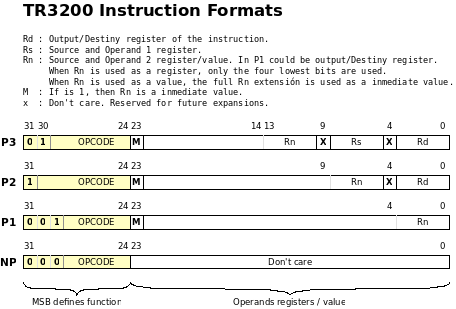
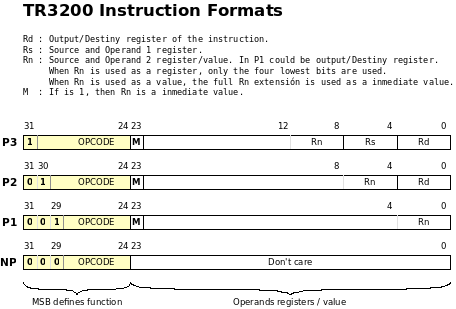
Tweaked TR3200 instruction format and set

diff --git a/TR3200.md b/TR3200.md
@@ -2,7 +2,7 @@ License : CC BY-SA 3.0 http://creativecommons.org/licenses/by-sa/3.0/
 
 TR3200 (Trillek Risc cpu 32 00) Specification
 ====================================
-Version 0.9b (WIP) 
+Version 0.10 (WIP) 
 
 
 SUMMARY
@@ -93,61 +93,62 @@ bits.
 - Form P1 : One parameter instruction format
 - Form NP : No parameter instruction format
 
+![Instruction Format Diagram](./TR3200_ins_format.png "InstructionFormatDia")
+
 ### P3 - Instructions with 3 parameters
 This format is usual for ALU  that does "a = b op c" and Load/Store instructions
 that does indexed access.
 
     31 30 29 28 27 26 25 24 23 22 21 20 19 18 17 16 15 14 13 12 11 10 09 08 07 06 05 04 03 02 01 00
     -----------------------------------------------------------------------------------------------
-    0  1  o  o  o  o  o  o  M  rn rn rn rn rn rn rn rn rn rn rn rn rn x  rs rs rs rs x  rd rd rd rd
+    1  o  o  o  o  o  o  o  M  rn rn rn rn rn rn rn rn rn rn rn rn rn rn rn rs rs rs rs rd rd rd rd
 
 Where :
 
-- ooooooo is the instruction Op Code
+- ooooooo is the instruction OpCode
 - M indicates that Rn is an IMMEDIATE value
 - Rn is a source register (only the LSB 4 bits) or an IMMEDIATE value if M bit is 1
 - Rs is a source register
 - Rd is the target register
-- x are reserved bits for future expansions
 
-If the M bit is 1, Rn acts like a immediate value in complement two, from 4095 to -4095. 
-Value -4096 (0b1000000000000) is a special value that indicates that the next dword is used 
+If the M bit is 1, Rn acts like a immediate value in complement two, from 16383 to -16383. 
+Value -16384 (0x4000) is a special value that indicates that the next dword is used 
 as 32 bit immediate value.
 
 
-    OpCode      Format  Meaning                 P-Code                  Cycle Count
+    OpCode     OpCode   Meaning                 P-Code                  Cycle Count
     -------------------------------------------------------------------------------
-    AND         000000  Bitwise And             Rd = Rs AND Rn                    3
-    OR          000001  Bitwise Or              Rd = Rs OR Rn                     3
-    XOR         000010  Bitwise XOr             Rd = Rs XOR Rn                    3
-    BITC        000011  Bitclear                Rd = Rs AND NOT Rn                3
+    AND        0x000    Bitwise And             Rd = Rs AND Rn                    3
+    OR         0x001    Bitwise Or              Rd = Rs OR Rn                     3
+    XOR        0x002    Bitwise XOr             Rd = Rs XOR Rn                    3
+    BITC       0x003    Bitclear                Rd = Rs AND NOT Rn                3
 
-    ADD         000100  Addition                Rd = Rs + Rn                      3
-    ADDC        000101  Addition with Carry     Rd = Rs + Rn + C                  3
-    SUB         000110  Substraction            Rd = Rs - Rn                      3
-    SUBB        000111  Subs with Burrow        Rd = Rs - (Rn + C)                3
-    RSB         001000  Reverse Substract       Rd = Rn - Rs                      3
-    RSBB        001001  RSB with Burrow         Rd = Rn - (Rs + C)                3
+    ADD        0x004    Addition                Rd = Rs + Rn                      3
+    ADDC       0x005    Addition with Carry     Rd = Rs + Rn + C                  3
+    SUB        0x006    Substraction            Rd = Rs - Rn                      3
+    SUBB       0x007    Subs with Burrow        Rd = Rs - (Rn + C)                3
+    RSB        0x008    Reverse Substract       Rd = Rn - Rs                      3
+    RSBB       0x009    RSB with Burrow         Rd = Rn - (Rs + C)                3
 
-    LLS         001010  Logical Left Shift      Rd = Rs << Rn                     3
-    LRS         001011  Logical Right Shift     Rd = Rs >> Rn                     3
-    ARS         001100  Arithmetic Right Shift  Rd = Rs >>> Rn                    3
-    ROTL        001101  Rotate Left             Rd = Rs ROTL Rn                   3
-    ROTR        001110  Rotate Right            Rd = Rs ROTR Rn                   3
+    LLS        0x00A    Logical Left Shift      Rd = Rs << Rn                     3
+    LRS        0x00B    Logical Right Shift     Rd = Rs >> Rn                     3
+    ARS        0x00C    Arithmetic Right Shift  Rd = Rs >>> Rn                    3
+    ROTL       0x00D    Rotate Left             Rd = Rs ROTL Rn                   3
+    ROTR       0x00E    Rotate Right            Rd = Rs ROTR Rn                   3
 
-    MUL         010000  Multiplication 32x32    Y:Rd = Rs * Rn                   20
-    SMUL        010001  Signed Multiplication   Y:Rd = Rs * Rn                   30
-    DIV         010010  Division 32:32          Rd = Rs / Rn                     30
-    SDIV        010011  Signed Division         Rd = Rs / Rn; Y = Rs % Rn        40
+    MUL        0x00F    Multiplication 32x32    Y:Rd = Rs * Rn                   20
+    SMUL       0x010    Signed Multiplication   Y:Rd = Rs * Rn                   30
+    DIV        0x011    Division 32:32          Rd = Rs / Rn ; Y = Rs % Rn       25
+    SDIV       0x012    Signed Division         Rd = Rs / Rn; Y = Rs % Rn        35
 
 
-    LOAD        100000  Loads a dword           Rd = ram[Rs + Rn]                 3
-    LOAD.W      100001  Loads a word            Rd = ram[Rs + Rn]                 3
-    LOAD.B      100010  Loads a byte            Rd = ram[Rs + Rn]                 3
+    LOAD       0x013    Loads a dword           Rd = ram[Rs + Rn]                 3
+    LOAD.W     0x014    Loads a word            Rd = ram[Rs + Rn]                 3
+    LOAD.B     0x015    Loads a byte            Rd = ram[Rs + Rn]                 3
 
-    STORE       100100  Saves a dword           ram[Rs + Rn] = Rd                 3
-    STORE.W     100101  Saves a word            ram[Rs + Rn] = Rd                 3
-    STORE.B     100110  Saves a byte            ram[Rs + Rn] = Rd                 3
+    STORE      0x016    Saves a dword           ram[Rs + Rn] = Rd                 3
+    STORE.W    0x017    Saves a word            ram[Rs + Rn] = Rd                 3
+    STORE.B    0x018    Saves a byte            ram[Rs + Rn] = Rd                 3
 
 
 #### Notation and Examples
@@ -155,12 +156,14 @@ Syntax :
 
     - *instr* Rd, Rs, Rn
     - STORE Rs + Rn, Rd
+    - STORE [Rs + Rn], Rd
     - LOAD Rd, Rs + Rn
+    - LOAD Rd, [Rs + Rn]
 
 Examples :
 
-    - %r7 = %r6 | %r7 : OR %r7, %r6 , %r7   ->  0x411800E7
-    - Loads dword at %r1+1024 in %r7 : LOAD %r7, %r1 + 1024 -> 0x60A8 0227
+    - %r7 = %r6 | %r7 : OR %r7, %r6 , %r7   ->  0x81000767
+    - Loads dword at %r1+1024 in %r7 : LOAD %r7, %r1 + 1024 -> 0x60A80227
     - %r0 = %r1 & 0xAAAA5555 : AND %r0, %r1, 0xAAAA -> 0x40FFFC20, 0xAAAA5555
 
 ### P2 - Instructions with 2 parameters
@@ -168,7 +171,7 @@ This format is usual for ALU  that does "a = op b", Load/Store, Jump/Call and sk
 
     31 30 29 28 27 26 25 24 23 22 21 20 19 18 17 16 15 14 13 12 11 10 09 08 07 06 05 04 03 02 01 00
     -----------------------------------------------------------------------------------------------
-    1  o  o  o  o  o  o  o  M  rn rn rn rn rn rn rn rn rn rn rn rn rn rn rn rn rn rn x  rd rd rd rd
+    0  1  o  o  o  o  o  o  M  rn rn rn rn rn rn rn rn rn rn rn rn rn rn rn rn rn rn rn rd rd rd rd
 
 Where :
 
@@ -176,46 +179,46 @@ Where :
 - M indicates that Rn is an IMMEDIATE value
 - Rn is a source register (only the LSB 4 bits) or an IMMEDIATE value if M bit is 1
 - Rd is the target or source register 
-- x are reserved bits for future expansions
 
-If the M bit is 1, Rn acts like a immediate value in complement two, from 131071 to -131071. 
-Value -131072 (0b100000000000000000) is a special value that indicates that the next dword is used 
+If the M bit is 1, Rn acts like a immediate value in complement two, from 262143 to -262143. 
+Value -262144 (0x40000) is a special value that indicates that the next dword is used 
 as 32 bit immediate value.
     
     
-    OpCode      Format  Meaning                 P-Code                  Cycle Count
+    OpCode     OpCode   Meaning                 P-Code                  Cycle Count
     -------------------------------------------------------------------------------
-    MOV         0000000 Set/Move a value        Rd = Rn                          3
-    SWP         0000001 Swaps values            Rd = Rn; Rn = Rd (M bit = 0)     3
+    MOV        0x000    Set/Move a value        Rd = Rn                          3
+    SWP        0x001    Swaps values            Rd = Rn; Rn = Rd (M bit = 0)     3
+    NOT        0x002    Does bitwise NOT        Rd = NOT Rn                      3
 
-    SIGXB       0000010 Extend Sign of Byte     Rd = Rn | 0xFFFFFF00 if Rn[7]    3
-    SIGXW       0000011 Extend Sign of Word     Rd = Rn | 0xFFFF0000 if Rn[15]   3
+    SIGXB      0x003    Extend Sign of Byte     Rd = Rn | 0xFFFFFF00 if Rn[7]    3
+    SIGXW      0x004    Extend Sign of Word     Rd = Rn | 0xFFFF0000 if Rn[15]   3
     
 
-    LOAD        1000000 Loads a dword           Rd = ram[Rn]                     3
-    LOAD.W      1000001 Loads a word            Rd = ram[Rn]                     3
-    LOAD.B      1000010 Loads a byte            Rd = ram[Rn]                     3
+    LOAD       0x005    Loads a dword           Rd = ram[Rn]                     3
+    LOAD.W     0x006    Loads a word            Rd = ram[Rn]                     3
+    LOAD.B     0x007    Loads a byte            Rd = ram[Rn]                     3
 
-    STORE       1000100 Saves a dword           ram[Rn] = Rd                     3
-    STORE.W     1000101 Saves a word            ram[Rn] = Rd                     3
-    STORE.B     1000110 Saves a byte            ram[Rn] = Rd                     3
+    STORE      0x008    Saves a dword           ram[Rn] = Rd                     3
+    STORE.W    0x009    Saves a word            ram[Rn] = Rd                     3
+    STORE.B    0x010    Saves a byte            ram[Rn] = Rd                     3
 
 
-    IFEQ        0100000 Execute If Rd == Rn                                     +3        
-    IFNEQ       0100001 Execute If Rd != Rn                                     +3   
+    IFEQ       0x011    Execute If Rd == Rn                                     +3        
+    IFNEQ      0x012    Execute If Rd != Rn                                     +3   
 
-    IFL         0100010 Execute If Rd < Rn (unsigned)                           +3
-    IFSL        0100011 Execute If Rd < Rn (signed)                             +3
-    IFLE        0100100 Execute If Rd <= Rn (unsigned)                          +3
-    IFSLE       0100101 Execute If Rd <= Rn (signed)                            +3
+    IFL        0x013    Execute If Rd < Rn (unsigned)                           +3
+    IFSL       0x014    Execute If Rd < Rn (signed)                             +3
+    IFLE       0x015    Execute If Rd <= Rn (unsigned)                          +3
+    IFSLE      0x016    Execute If Rd <= Rn (signed)                            +3
 
-    IFBITS      0100110 Execute If Rd & Rn != 0                                 +3
-    IFCLEAR     0100111 Execute If Rd & Rn == 0                                 +3
+    IFBITS     0x017    Execute If Rd & Rn != 0                                 +3
+    IFCLEAR    0x018    Execute If Rd & Rn == 0                                 +3
     
 
     (Absolute JUMPs/CALLs)
-    JMP         1100000 Absolute Jump           %pc = (Rd + Rn) & 0xFFFFFFFC     3
-    CALL        1100001 Absolute Jump& Push %pc %pc = (Rd + Rn) & 0xFFFFFFFC     4
+    JMP        0x019    Absolute Jump           %pc = (Rd + Rn) & 0xFFFFFFFC     3
+    CALL       0x01A    Absolute Jump& Push %pc %pc = (Rd + Rn) & 0xFFFFFFFC     4
 
 
 #### Notation and Examples
@@ -228,9 +231,9 @@ Syntax :
 
 Examples :
 
-    - Set %r10 = %sp : MOV %r10, %sp -> 0x007C000A
-    - Jumps to %r1 + 0x300 : JMP %r1 + 0x300 -> 0x60806001
-    - Writes LSB byte in %r10 to 0xFF0B0000 : STORE.B 0xFF0B0000, %r10 -> 0x42FFFFEA, 0xFF0B0000
+    - Set %r10 = %sp : MOV %r10, %sp -> 0x400000DA
+    - Jumps to %r1 + 0x300 : JMP %r1 + 0x300 -> 0x59803001
+    - Writes LSB byte in %r10 to 0xFF0B0000 : STORE.B 0xFF0B0000, %r10 -> 0x48C0000A, 0xFF0B0000
 
 ### P1 - Instructions with 1 parameters
 This format is usual for Registers manipulation, Stack operations and Jump/Call instructions
@@ -250,28 +253,28 @@ If the M bit is 1 the Rn acts like a immediate value in complement two (0x3FFFFF
 special value that is 0x400000. This special value marks that the next dword is used a 32 bit immediate value.
 
 
-    OpCode      Format  Meaning                 P-Code                  Cycle Count
+    OpCode     OpCode   Meaning                 P-Code                  Cycle Count
     -------------------------------------------------------------------------------
-    XCHGB       00000   Exchange Bytes of the 16 LSB  (M = 0)                     3
-    XCHGW       00001   Exchange Words  (M = 0)                                   3
+    XCHGB      0x00     Exchange Bytes of the 16 LSB  (M = 0)                    3
+    XCHGW      0x01     Exchange Words  (M = 0)                                  3
     
-    GETPC       00010   Return %pc value        Rn = %pc+4 (M = 0)                3
+    GETPC      0x02     Return %pc value        Rn = %pc+4 (M = 0)               3
   
 
-    POP         01001   Pops from the stack     %sp +=4 ; Rn = [%sp] (M = 0)      3
-    PUSH        01010   Push to the stack       [%sp] = Rn ; %sp -=4 (M = 0)      3
+    POP        0x03     Pops from the stack     %sp +=4 ; Rn = [%sp] (M = 0)     3
+    PUSH       0x04     Push to the stack       [%sp] = Rn ; %sp -=4 (M = 0)     3
 
 
     (Absolute JUMPs/CALLs)
-    JMP         11000 Absolute Jump             %pc = Rn & 0xFFFFFFFC             3
-    CALL        11001 Absolute Jump& Push %pc   %pc = Rn & 0xFFFFFFFC             4
+    JMP        0x05    Absolute Jump            %pc = Rn & 0xFFFFFFFC            3
+    CALL       0x06    Absolute Jump& Push %pc  %pc = Rn & 0xFFFFFFFC            4
     
     (Relative JUMPs/CALLs)
-    RJMP        11010 Relative Jump             %pc = (%pc + Rn) & 0xFFFFFFFC     3
-    RCALL       11011 Relative Jump& Push %pc   %pc = (&pc + Rn) & 0xFFFFFFFC     4
+    RJMP       0x07    Relative Jump            %pc = (%pc + Rn) & 0xFFFFFFFC    3
+    RCALL      0x08    Relative Jump& Push %pc  %pc = (&pc + Rn) & 0xFFFFFFFC    4
    
 
-    INT         11100 Software Interrupt                                          6
+    INT        0x09    Software Interrupt                                        6
 
 
 #### Notation and Examples
@@ -281,8 +284,8 @@ Syntax :
 
 Examples :
 
-    - INT 21h -> 0x3C800021
-    - CALL 0xBEBECAFE -> 0x38C00000, 0xBEBECAFE
+    - INT 21h -> 0x29800021
+    - CALL 0xBEBECAFE -> 0x26C00000, 0xBEBECAFE
 
 ### NP - Instructions without parameters
 This format is for special instructions that allows to return from a Call or Interrupt or Sleep the CPU.
@@ -290,24 +293,28 @@ This format is for special instructions that allows to return from a Call or Int
 
     31 30 29 28 27 26 25 24 23 22 21 20 19 18 17 16 15 14 13 12 11 10 09 08 07 06 05 04 03 02 01 00
     -----------------------------------------------------------------------------------------------
-     0  0  0  o  o  o  o  o  o  o  o  o  o  o  o  o  o  o  o  o  o  o  o  o  o  o  o  o  o  o  o  o
+     0  0  0  o  o  o  o  o  x  x  x  x  x  x  x  x  x  x  x  x  x  x  x  x  x  x  x  x  x  x  x  x
 
 
-    OpCode      Format      Meaning                                     Cycle Count
+    OpCode     OpCode       Meaning                                     Cycle Count
     -------------------------------------------------------------------------------
-    SLEEP       0x00000000  Sleeps the CPU and waits that a Interrupt happens    +1   
+    SLEEP      0x00         Sleeps the CPU and waits that a Interrupt happens   +1   
     
-    RET         0x01000000  Return from subrutine                                 4   
+    RET        0x01         Return from subrutine                                4   
     
-    RFI         0x02000000  Return from interrupt                                 6   
+    RFI        0x02         Return from interrupt                                6   
 
+Where :
+
+- ooooo is the instruction Op Code
+- x are reserved bits for future expansions. Should be 0, but will be ignored.
 
 #### Notation and Examples
 Syntax : 
     - *instr*
 
 Examples :
-    - RET -> 0x00000004 
+    - RET -> 0x01000000 
 
 DESCRIPTION OF INSTRUCTIONS
 ===========================
@@ -388,7 +395,7 @@ ALU INSTRUCTIONS
   
     NOT Rd, Rn
   
-This is not a real instruction. Only is an alias of XOR Rd, Rs, 0xFFFFFFFF
+Does the bitwise NOT operation between Rs and Rn and put it in Rd.
  
 
     AND Rd, Rs, Rn
